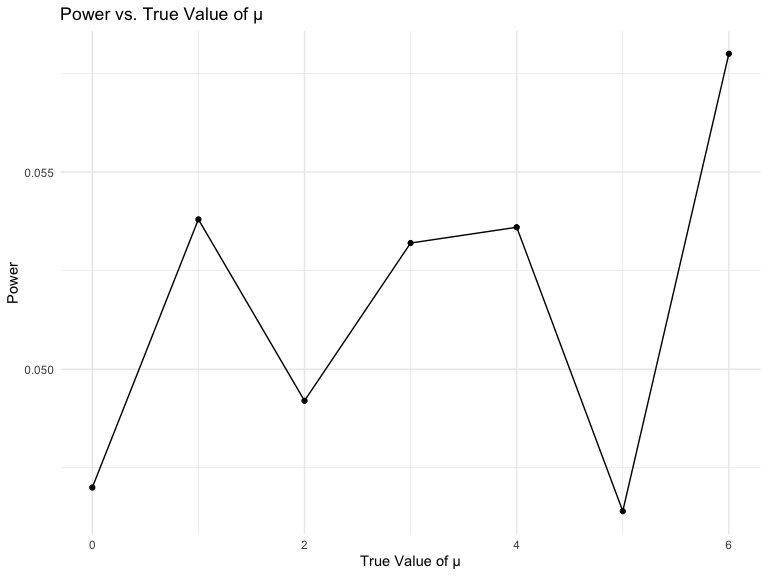
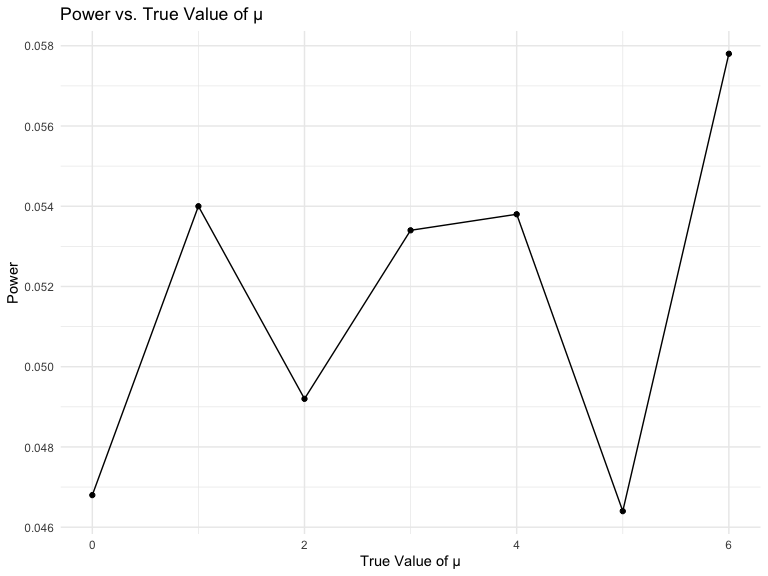
adding descriptions for power and comparison averagre estimates of mu

diff --git a/p8105_hw5_vsm2118.md b/p8105_hw5_vsm2118.md
@@ -209,15 +209,6 @@ sim_t_test <- function(true_mean = 0, true_sd = 5, n_obs = 30) {
   )
 }
 
-sim_t_test(10)
-```
-
-    ## # A tibble: 1 × 3
-    ##   true_mean estimate_mean  p_value
-    ##       <dbl>         <dbl>    <dbl>
-    ## 1        10          10.4 6.89e-13
-
-``` r
 # Use map to simulate the t-test for different true values of μ
 sim_results <- expand_grid(
   true_mean = c(0, 1, 2, 3, 4, 5, 6),
@@ -226,8 +217,9 @@ sim_results <- expand_grid(
   mutate(t_test_results = map2(true_mean, iter, sim_t_test)) 
 ```
 
+Plot 1: Power vs. True Value of μ
+
 ``` r
-# Plot 1: Power vs. True Value of μ
 power_plot_data <- sim_results %>%
   mutate(power = map_dbl(t_test_results, ~ mean(.x$p_value < 0.05))) %>%
   group_by(true_mean) %>%
@@ -242,6 +234,13 @@ ggplot(power_plot_data, aes(x = true_mean, y = power)) +
 ```
 
 <img src="p8105_hw5_vsm2118_files/figure-gfm/unnamed-chunk-4-1.png" width="90%" />
+
+There appears to be a complex, non-linear relationship between effect
+size (true value of μ) and power. The initial increase from 0 to 1 and
+subsequent fluctuations might suggest varying sensitivity of the test to
+different effect sizes. Furthermore, the sharp changes at specific
+values of μ could be indicative of thresholds or critical points where
+the test’s ability to detect the effect size changes.
 
 Plot 2: Average Estimate of μ̂ vs. True Value of μ
 
@@ -291,3 +290,18 @@ ggplot(combined_data, aes(x = true_mean)) +
 ```
 
 <img src="p8105_hw5_vsm2118_files/figure-gfm/unnamed-chunk-6-1.png" width="90%" />
+
+The sample average of μ̂ across tests for which the null hypothesis is
+rejected does not appear to be approximately equal to the true value of
+μ. The average estimate of μ̂ for all samples tends to hover around a
+relatively smaller range near zero, indicating unbiased behavior of the
+estimator. However, the wider range observed in rejected samples
+suggests increased variability, potentially influenced by factors such
+as data variability and the sensitivity of the test. Notably, the
+crossing points between the lines representing all samples and rejected
+samples indicate that, for specific true values of μ, the estimation
+process remains unbiased even when the null hypothesis is rejected. The
+variability observed in rejected samples may be attributed to factors
+associated with the rejection of the null hypothesis, emphasizing this
+nuanced relationship between effect size, estimation, and hypothesis
+testing.
